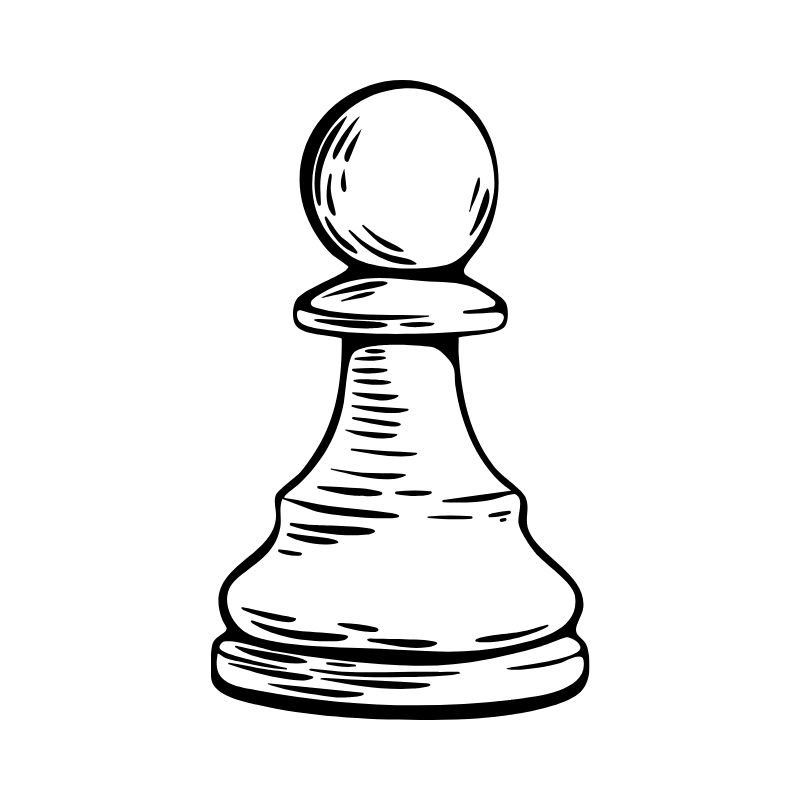
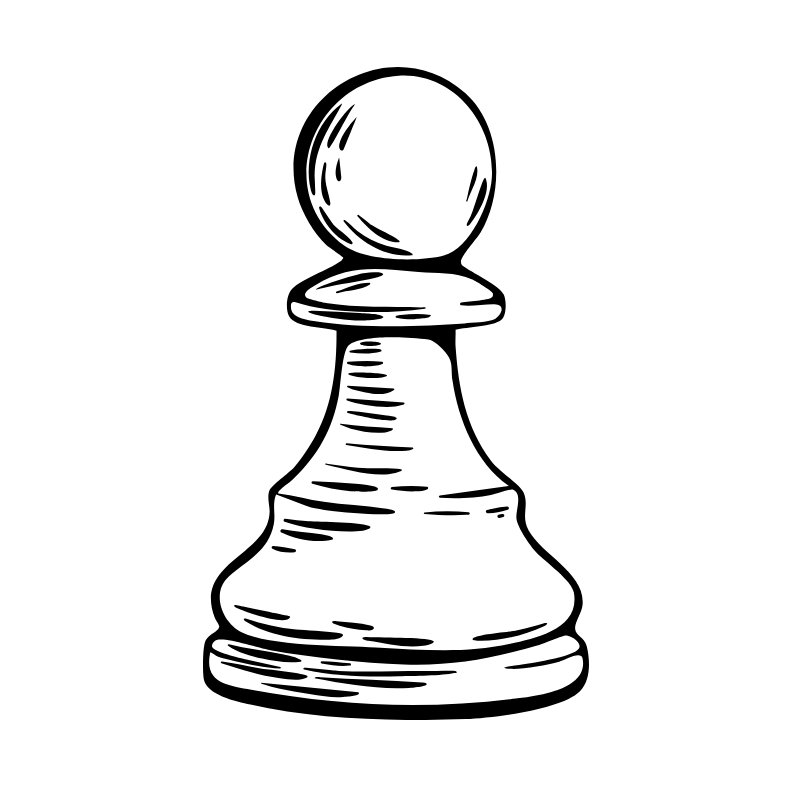
lkj

Changed region(s): [[0.25, 0.0625, 0.75, 0.875], [0.6562, 0.6562, 0.7188, 0.7188]]

diff --git a/server.py b/server.py
@@ -1040,8 +1040,11 @@ CROSS_SKINS = {
     '003': {'name': 'X-Surprise',    'file': 'x_surprise',    'price': 450},
     '004': {'name': 'Flame Egg',     'file': 'flame_egg',     'price': 450},
     '005': {'name': 'Wow Cat',       'file': 'wow_cat',       'price': 740},
-    '006': {'name': 'Dragon Slayer', 'file': 'dragon_slayer', 'price': 2400},
+    '006': {'name': 'Dragon Slayer', 'file': 'dragon_slayer', 'price': 1400},
     '007': {'name': 'White Pawn',    'file': 'white_pawn',    'price': 300},
+    '008': {'name': 'Icestone',    'file': 'icestone',    'price': 700},
+    '009': {'name': 'Sentinel of Ice', 'file': 'sentinel_of_ice', 'price': 700},
+    '010': {'name': 'Oceanic Nova', 'file': 'oceanic_nova', 'price': 700},
 }
 CIRCLE_SKINS = {
     '001': {'name': 'Default',          'file': 'default',          'price': 0},
@@ -1049,13 +1052,16 @@ CIRCLE_SKINS = {
     '003': {'name': 'O-Surprise',       'file': 'o_surprise',       'price': 450},
     '004': {'name': 'Void Egg',         'file': 'void_egg',         'price': 450},
     '005': {'name': 'Huh Cat',          'file': 'huh_cat',          'price': 740},
-    '006': {'name': 'The Great Dragon', 'file': 'the_great_dragon', 'price': 2400},
+    '006': {'name': 'The Great Dragon', 'file': 'the_great_dragon', 'price': 1400},
     '007': {'name': 'Black Pawn',       'file': 'black_pawn',       'price': 300},
+    '008': {'name': 'Flamestone',       'file': 'flamestone',       'price': 700},
+    '009': {'name': 'Sentinel of Fire', 'file': 'sentinel_of_fire', 'price': 700},
+    '010': {'name': 'Infernal Nova',    'file': 'infernal_nova',    'price': 700},
 }
 
 SUPER_SKINS = {
     '101': {'name': 'Runes', 'file': 'runes', 'price': 4500},
-    '102': {'name': 'The Mage', 'file': 'the_mage', 'price': 600},
+    '102': {'name': 'The Mage', 'file': 'the_mage', 'price': 6000},
     '103': {'name': 'Scroll of Power', 'file': 'scroll_of_power', 'price': 6000},
     '104': {'name': 'Flame Sword', 'file': 'flame_sword', 'price': 5000},
     '105': {'name': 'Magical Sword', 'file': 'magical_sword', 'price': 5000},
